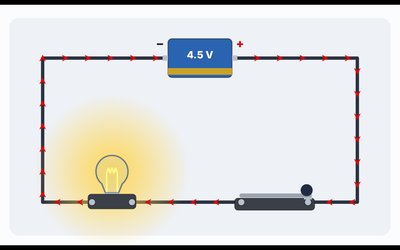
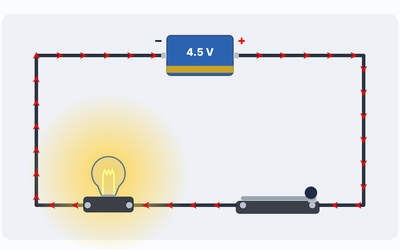
Show the book reference (chapter, activity, page) on every part of each simulation and in the catalog
Claude-Session: https://claude.ai/code/session_017qaLw2veXDmuajYeBGnVNE

Changed region(s): [[0.06, 0.14, 0.93, 0.868], [0.0, 0.98, 1.0, 1.0], [0.0, 0.0, 1.0, 0.028]]

diff --git a/sims/grade7/simple-circuit/strings.js b/sims/grade7/simple-circuit/strings.js
@@ -3,6 +3,10 @@
 export default {
   en: {
     title: 'Electric circuit',
+    'ref.circuit': 'Chapter 10: Electric circuit · Activities 3 and 4 · pages 81–82',
+    'ref.conductors': 'Chapter 10: Electric circuit · Activity 5 · page 83',
+    'ref.adapt': 'Chapter 10: Electric circuit · Activities 6 and 7 · pages 84–85',
+    'ref.current': 'Chapter 11: Electric measurements · Activities 1 and 2 · pages 90–91',
 
     'tab.circuit': 'Closed and open circuit',
     'tab.conductors': 'Conductors and insulators',
@@ -141,7 +145,7 @@ export default {
     ],
 
     // Info
-    'info.book': 'Grade 7, Chapter 10 — Electric circuit, Activities 3 to 7 (pages 81–85), and Chapter 11, Activities 1–2 (pages 90–91)',
+    'info.book': 'Grade 7, Chapter 10 — Electric circuit, Activities 3 to 7 (pages 81–85), and Chapter 11 — Electric measurements, Activities 1–2 (pages 90–91)',
     'info.model': [
       'A dry cell, appliances and connecting wires form an electric circuit. A current flows only in a closed circuit.',
       'The dry cell is a generator; it has two different poles: positive (+) and negative (−).',
@@ -159,6 +163,10 @@ export default {
 
   fr: {
     title: 'Le circuit électrique',
+    'ref.circuit': 'Chapitre 10 : Comment allumer une lampe · Activités 3 et 4 · pages 81–82',
+    'ref.conductors': 'Chapitre 10 : Comment allumer une lampe · Activité 5 · page 83',
+    'ref.adapt': 'Chapitre 10 : Comment allumer une lampe · Activités 6 et 7 · pages 84–85',
+    'ref.current': 'Chapitre 11 : Mesures électriques · Activités 1 et 2 · pages 90–91',
 
     'tab.circuit': 'Circuit fermé et ouvert',
     'tab.conductors': 'Conducteurs et isolants',
@@ -291,7 +299,7 @@ export default {
       ['Dans quel montage le courant est-il le plus intense ?', 'Avec trois piles : la lampe brille le plus. Une lampe brille d’autant plus que le courant qui la traverse est intense.'],
     ],
 
-    'info.book': 'EB7, chapitre 10 — Le circuit électrique, activités 3 à 7 (pages 81–85), et chapitre 11, activités 1–2 (pages 90–91)',
+    'info.book': 'EB7, chapitre 10 — Comment allumer une lampe, activités 3 à 7 (pages 81–85), et chapitre 11 — Mesures électriques, activités 1–2 (pages 90–91)',
     'info.model': [
       'La pile, les appareils et les fils de connexion forment un circuit électrique. Le courant ne circule que dans un circuit fermé.',
       'La pile est un générateur ; elle possède deux bornes distinctes : positive (+) et négative (−).',

diff --git a/shared/sim-shell.js b/shared/sim-shell.js
@@ -1,5 +1,5 @@
 // Common page wiring for every simulation: languages, tabs, activity panel, info dialog.
-import { addStrings, applyI18n, setLang, t, onLangChange, checkKeys } from './i18n.js';
+import { addStrings, applyI18n, setLang, t, has, onLangChange, checkKeys } from './i18n.js';
 import shared from './strings.js';
 import { el } from './controls.js';
 
@@ -35,6 +35,16 @@ export function initSim({ strings, tabs = [], initialTab, onTab }) {
   });
   if (nav && tabs.length < 2) nav.hidden = true;
 
+  // Book reference of the current part (chapter · activity · page), from strings 'ref.<tab>'
+  const ref = el('p', { class: 'book-ref', id: 'book-ref', hidden: '' });
+  (nav || document.querySelector('.topbar')).after(ref);
+  function renderRef() {
+    const key = `ref.${current}`;
+    if (!has(key)) { ref.hidden = true; return; }
+    ref.hidden = false;
+    ref.replaceChildren(el('span', { class: 'book-ref-label' }, t('ui.book')), ' ', t(key));
+  }
+
   function setTab(id) {
     current = id;
     tabButtons.forEach((b) => {
@@ -43,6 +53,7 @@ export function initSim({ strings, tabs = [], initialTab, onTab }) {
       b.tabIndex = on ? 0 : -1;
     });
     renderActivity();
+    renderRef();
     onTab?.(id);
   }
 
@@ -85,7 +96,7 @@ export function initSim({ strings, tabs = [], initialTab, onTab }) {
 
   function refreshTitle() { document.title = `${t('title')} — LAPT`; }
 
-  onLangChange(() => { renderActivity(); renderInfo(); refreshTitle(); });
+  onLangChange(() => { renderActivity(); renderRef(); renderInfo(); refreshTitle(); });
   applyI18n();
   renderInfo();
   refreshTitle();

diff --git a/sims/grade7/density-lab/strings.js b/sims/grade7/density-lab/strings.js
@@ -3,6 +3,10 @@
 export default {
   en: {
     title: 'Density and relative density',
+    'ref.solid': 'Chapter 3: Mass and Density · Activity 6 · page 31',
+    'ref.liquid': 'Chapter 3: Mass and Density · Activity 7 · page 31',
+    'ref.rd': 'Chapter 3: Mass and Density · Activity 8 · page 32',
+    'ref.mystery': 'Chapter 3: Mass and Density · Activities 6 to 8 · pages 31–32',
 
     'tab.solid': 'Density of a solid',
     'tab.liquid': 'Density of a liquid',
@@ -171,6 +175,10 @@ export default {
 
   fr: {
     title: 'Masse volumique et densité',
+    'ref.solid': 'Chapitre 3 : La masse et la masse volumique · Activité 6 · page 31',
+    'ref.liquid': 'Chapitre 3 : La masse et la masse volumique · Activité 7 · page 31',
+    'ref.rd': 'Chapitre 3 : La masse et la masse volumique · Activité 8 · page 32',
+    'ref.mystery': 'Chapitre 3 : La masse et la masse volumique · Activités 6 à 8 · pages 31–32',
 
     'tab.solid': 'Masse volumique d’un solide',
     'tab.liquid': 'Masse volumique d’un liquide',

diff --git a/sims/grade7/balances/strings.js b/sims/grade7/balances/strings.js
@@ -2,6 +2,9 @@
 export default {
   en: {
     title: 'Digital balance and balance with equal arms',
+    'ref.digital': 'Chapter 3: Mass and Density · Activity 3 · page 29',
+    'ref.equal': 'Chapter 3: Mass and Density · Activity 4 · page 29',
+    'ref.liquid': 'Chapter 3: Mass and Density · Activity 5 · page 30',
 
     'tab.digital': 'Digital balance',
     'tab.equal': 'Balance with equal arms',
@@ -163,6 +166,9 @@ export default {
 
   fr: {
     title: 'Balance numérique et balance à bras égaux',
+    'ref.digital': 'Chapitre 3 : La masse et la masse volumique · Activité 3 · page 29',
+    'ref.equal': 'Chapitre 3 : La masse et la masse volumique · Activité 4 · page 29',
+    'ref.liquid': 'Chapitre 3 : La masse et la masse volumique · Activité 5 · page 30',
 
     'tab.digital': 'Balance numérique',
     'tab.equal': 'Balance à bras égaux',

diff --git a/sims/grade7/graduated-cylinder/strings.js b/sims/grade7/graduated-cylinder/strings.js
@@ -2,6 +2,9 @@
 export default {
   en: {
     title: 'Measuring volume with a graduated cylinder',
+    'ref.read': 'Chapter 2: Volume · Activity 3 · page 21',
+    'ref.definite': 'Chapter 2: Volume · Activity 4 · page 22',
+    'ref.immersion': 'Chapter 2: Volume · Activities 5 and 6 · pages 22–23',
 
     'tab.read': 'Reading the volume',
     'tab.definite': 'Definite volume',
@@ -138,6 +141,9 @@ export default {
 
   fr: {
     title: 'Mesure du volume avec une éprouvette graduée',
+    'ref.read': 'Chapitre 2 : Le volume · Activité 3 · page 21',
+    'ref.definite': 'Chapitre 2 : Le volume · Activité 4 · page 22',
+    'ref.immersion': 'Chapitre 2 : Le volume · Activités 5 et 6 · pages 22–23',
 
     'tab.read': 'Lecture du volume',
     'tab.definite': 'Volume déterminé',

diff --git a/shared/base.css b/shared/base.css
@@ -194,6 +194,13 @@ body {
 }
 .tabs button[aria-selected="true"] { background: var(--primary); border-color: var(--primary); color: var(--primary-ink); font-weight: 600; }
 
+/* ---------- Book reference (chapter · activity · page) ---------- */
+.book-ref { max-width: 1240px; margin: 8px auto 0; padding: 0 16px; font-size: 0.9rem; color: var(--muted); }
+.book-ref-label {
+  display: inline-block; margin-right: 6px; padding: 1px 8px; border-radius: 999px;
+  background: var(--brand-navy); color: #ffffff; font-size: 0.78rem; font-weight: 700; letter-spacing: 0.02em;
+}
+
 /* ---------- Layout ---------- */
 .layout {
   display: grid; gap: var(--gap);

diff --git a/index.html b/index.html
@@ -84,6 +84,7 @@
               s.status === 'draft' ? el('span', { class: 'badge' }, t('cat.draft')) : null,
               el('h3', {}, s.title[lang]),
               el('span', { class: 'chap' }, s.chapter[lang]),
+              s.book ? el('span', { class: 'chap' }, s.book[lang]) : null,
               el('p', {}, s.summary[lang]),
             ]),
           ]));

diff --git a/shared/i18n.js b/shared/i18n.js
@@ -20,6 +20,9 @@ export function addStrings(strings) {
 
 export function getLang() { return lang; }
 
+// true if the key exists (in the current language or in EN)
+export function has(key) { return dict[lang][key] != null || dict.en[key] != null; }
+
 export function setLang(l) {
   if (!LANGS.includes(l)) return;
   lang = l;
